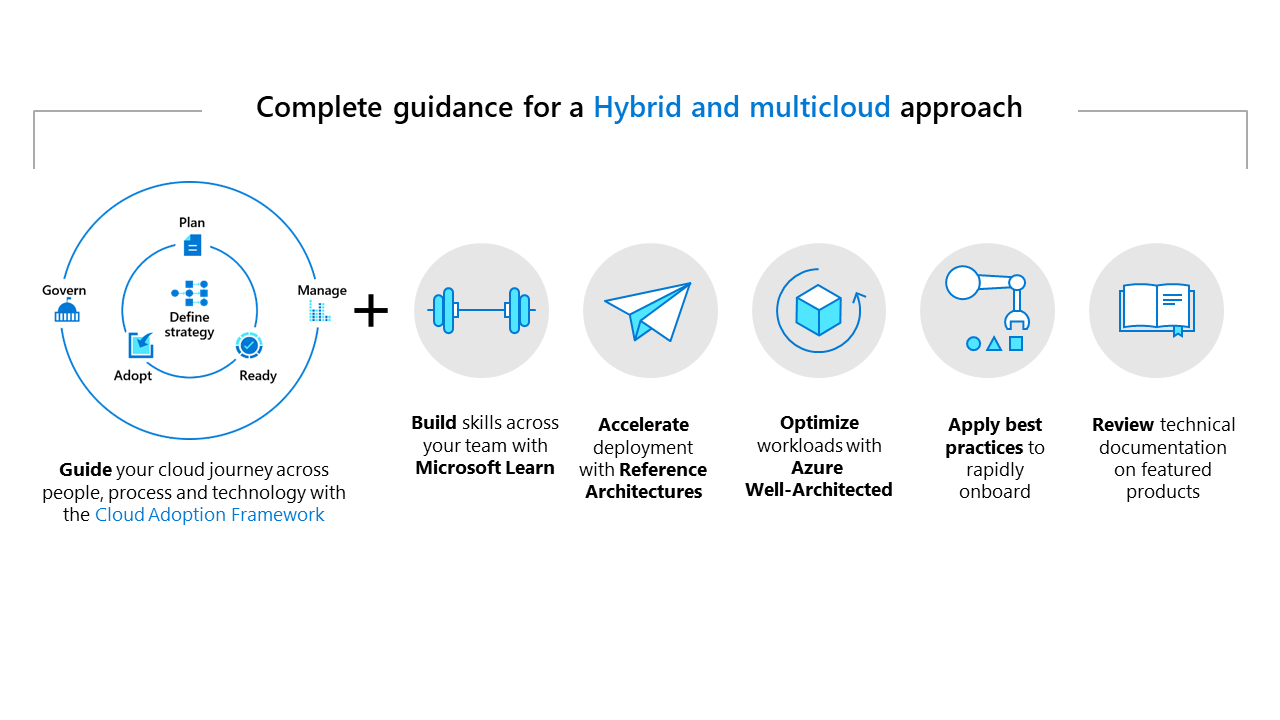
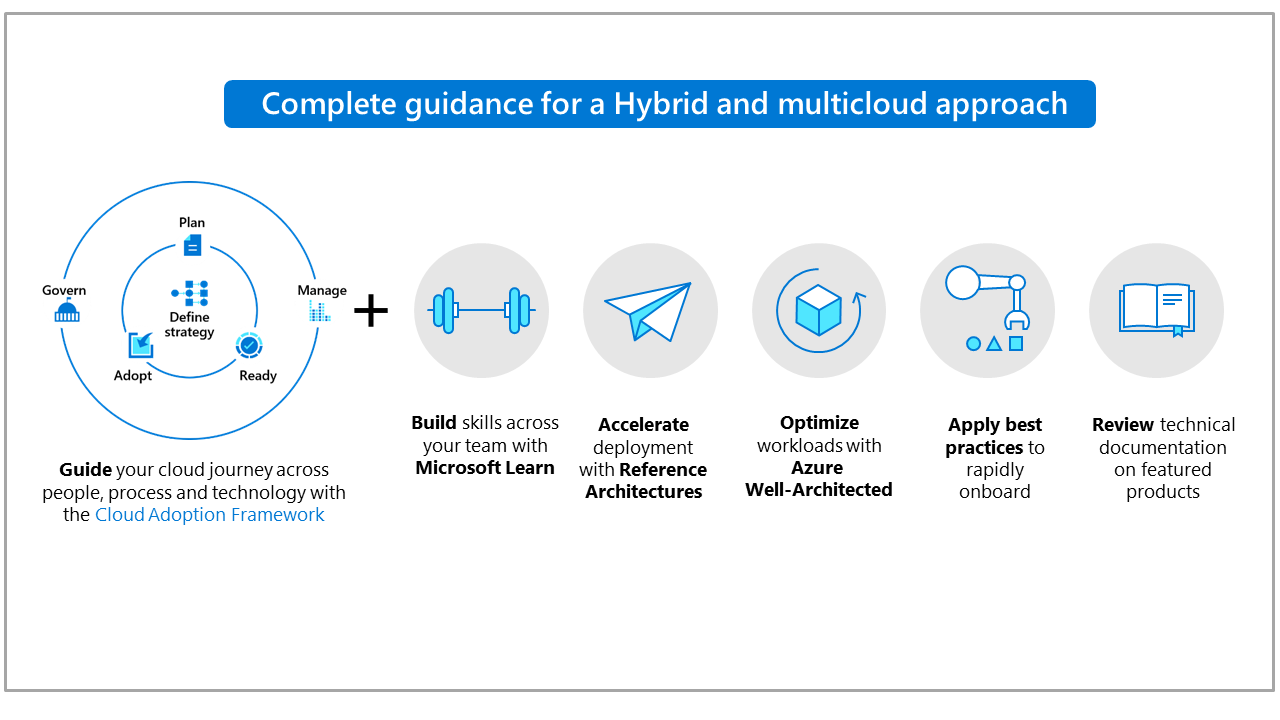
Updated scenario-overview.md and hybrid-multicloud-approach.png

diff --git a/docs/scenarios/hybrid/scenario-overview.md b/docs/scenarios/hybrid/scenario-overview.md
@@ -19,13 +19,13 @@ This scenario focuses on enabling two targeted outcomes:
 - [Hybrid and multicloud adoption](./index.md): Building, deploying, and/or migrating solutions that are portable, allowing for ease of movement between cloud platforms with minimum vendor lock-in.
 - [Unified operations](./unified-operations.md): Streamlining operations to support those solutions across each cloud, through a central set of governance and management processes which share common operations processes, regardless of where the solution is currently deployed.
 
-## Components of the scenario
+## Scenario components
 
 This scenario is designed to guide the end-2-end customer journey during the cloud adoption lifecycle.
 
 ![Graphic of the hybrid multicloud approach](../../_images/hybrid/hybrid-multicloud-approach.png)
 
-Delivery of the full journey requires a few key components, or guidance sets:
+Delivery of the full journey requires certain key components, or guidance sets:
 
 | <span title="Icon">&nbsp;</span> | <span title="Description">&nbsp;</span> |
 |--|--|
